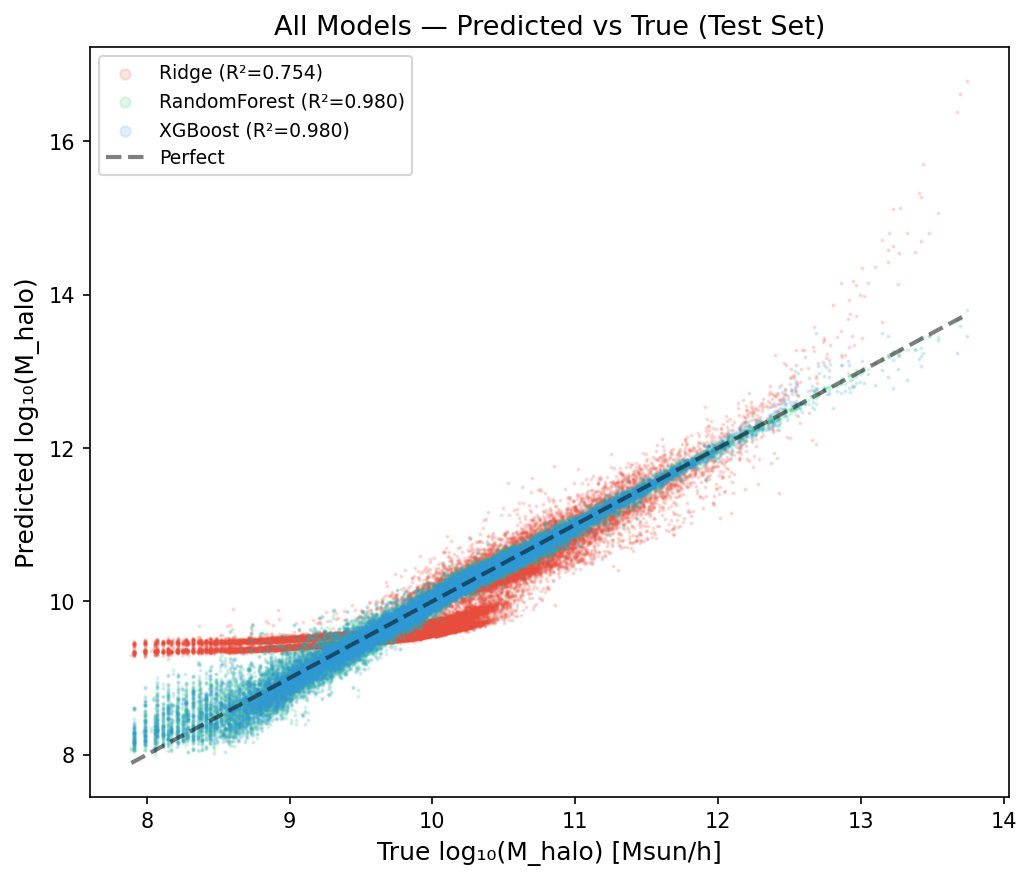
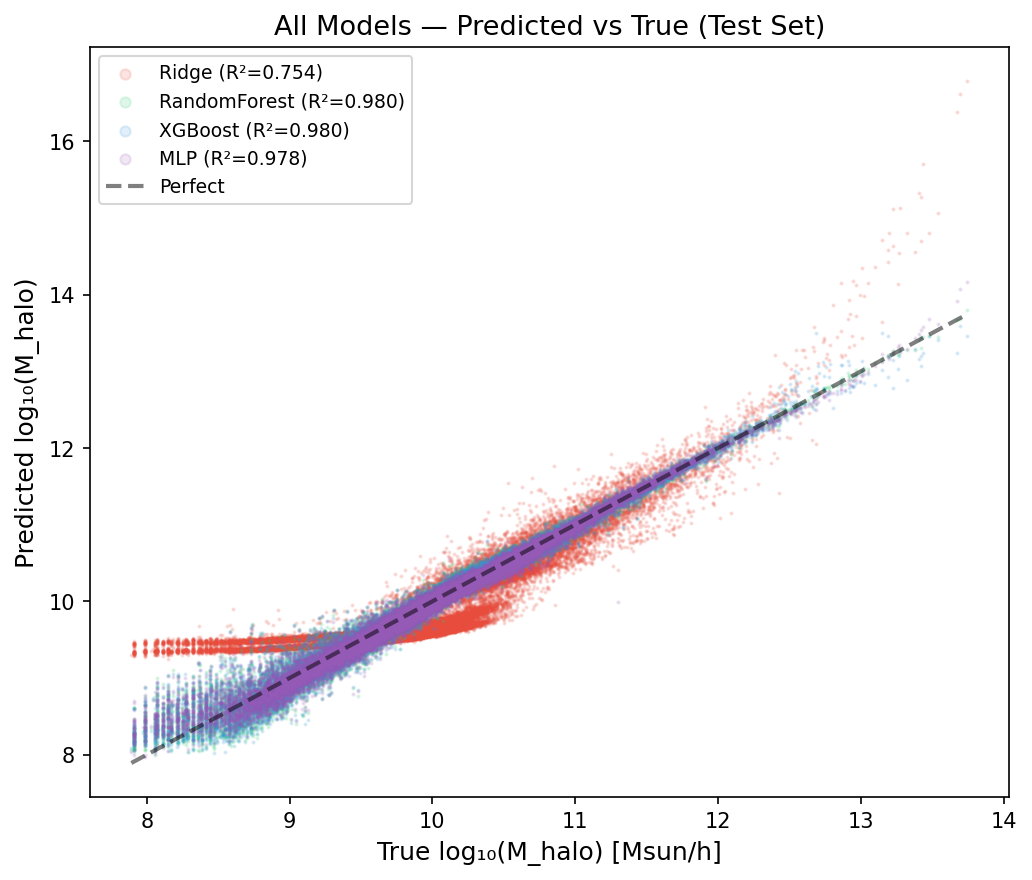
feat: include MLP in mass-binned analysis (step8) and transfer test (step9)

diff --git a/scripts/step8_final_evaluation.py b/scripts/step8_final_evaluation.py
@@ -36,10 +36,41 @@ from sklearn.metrics import mean_absolute_error, mean_squared_error, r2_score
 from sklearn.preprocessing import StandardScaler
 
 try:
+    import torch
+    import torch.nn as nn
+    HAS_TORCH = True
+except ImportError:
+    HAS_TORCH = False
+
+try:
     import xgboost as xgb
     HAS_XGB = True
 except ImportError:
     HAS_XGB = False
+
+
+# ---------------------------------------------------------------------------
+# MLP model definition (must match step7)
+# ---------------------------------------------------------------------------
+if HAS_TORCH:
+    class HaloMLP(nn.Module):
+        def __init__(self, n_features: int, hidden_sizes: list[int], dropout: float):
+            super().__init__()
+            layers = []
+            prev = n_features
+            for h in hidden_sizes:
+                layers.extend([
+                    nn.Linear(prev, h),
+                    nn.BatchNorm1d(h),
+                    nn.ReLU(),
+                    nn.Dropout(dropout),
+                ])
+                prev = h
+            layers.append(nn.Linear(prev, 1))
+            self.net = nn.Sequential(*layers)
+
+        def forward(self, x: torch.Tensor) -> torch.Tensor:
+            return self.net(x).squeeze(-1)
 
 # ---------------------------------------------------------------------------
 _log_lines: list[str] = []
@@ -170,6 +201,24 @@ def combined_pred_vs_true(
         xgb_model.fit(X_train, y_train)
         predictions["XGBoost"] = xgb_model.predict(X_test)
 
+    # MLP (load saved model from step7)
+    mlp_path = Path("artifacts/step7_mlp/best_model.pt")
+    if HAS_TORCH and mlp_path.exists():
+        device = torch.device("cpu")
+        mlp_scaler = StandardScaler()
+        X_train_mlp_s = mlp_scaler.fit_transform(X_train)
+        X_test_mlp_s = mlp_scaler.transform(X_test)
+
+        mlp_model = HaloMLP(n_features=len(feat_cols), hidden_sizes=[256, 128, 64], dropout=0.1)
+        mlp_model.load_state_dict(torch.load(mlp_path, map_location=device, weights_only=True))
+        mlp_model.eval()
+        with torch.no_grad():
+            X_t = torch.tensor(X_test_mlp_s, dtype=torch.float32)
+            predictions["MLP"] = mlp_model(X_t).numpy()
+        log(f"  MLP loaded from {mlp_path}")
+    else:
+        log(f"  MLP skipped (torch={'yes' if HAS_TORCH else 'no'}, model={'exists' if mlp_path.exists() else 'missing'})")
+
     # Plot combined
     colors = {"Ridge": "#E74C3C", "RandomForest": "#2ECC71",
               "XGBoost": "#3498DB", "MLP": "#9B59B6"}
@@ -212,7 +261,7 @@ def mass_binned_analysis(
 
     results: dict[str, Any] = {}
     colors = {"Ridge": "#E74C3C", "RandomForest": "#2ECC71",
-              "XGBoost": "#3498DB"}
+              "XGBoost": "#3498DB", "MLP": "#9B59B6"}
 
     fig, axes = plt.subplots(1, 2, figsize=(14, 5))
 
@@ -262,13 +311,14 @@ def mass_binned_analysis(
 
     # Print table
     log()
-    log(f"  {'Bin':20s} │ {'Count':>6s} │ {'Ridge RMSE':>10s} │ {'RF RMSE':>10s} │ {'XGB RMSE':>10s}")
-    log("  " + "─" * 65)
+    header_models = [m for m in ["Ridge", "RandomForest", "XGBoost", "MLP"] if m in results]
+    header = f"  {'Bin':20s} │ {'Count':>6s}" + "".join(f" │ {m+' RMSE':>12s}" for m in header_models)
+    log(header)
+    log("  " + "─" * (30 + 15 * len(header_models)))
     for i, label in enumerate(bin_labels):
         row_items = [f"  {label:20s}", f" {results.get('Ridge', {}).get('bin_counts', [0]*7)[i]:>6}"]
-        for mname in ["Ridge", "RandomForest", "XGBoost"]:
-            if mname in results:
-                row_items.append(f" {results[mname]['bin_rmse'][i]:>10.4f}")
+        for mname in header_models:
+            row_items.append(f" {results[mname]['bin_rmse'][i]:>12.4f}")
         log(" │".join(row_items))
     log()
     return results

diff --git a/scripts/step9_transfer.py b/scripts/step9_transfer.py
@@ -50,6 +50,37 @@ try:
 except ImportError:
     HAS_XGB = False
 
+try:
+    import torch
+    import torch.nn as nn
+    HAS_TORCH = True
+except ImportError:
+    HAS_TORCH = False
+
+
+# ---------------------------------------------------------------------------
+# MLP model definition (must match step7)
+# ---------------------------------------------------------------------------
+if HAS_TORCH:
+    class HaloMLP(nn.Module):
+        def __init__(self, n_features: int, hidden_sizes: list[int], dropout: float):
+            super().__init__()
+            layers = []
+            prev = n_features
+            for h in hidden_sizes:
+                layers.extend([
+                    nn.Linear(prev, h),
+                    nn.BatchNorm1d(h),
+                    nn.ReLU(),
+                    nn.Dropout(dropout),
+                ])
+                prev = h
+            layers.append(nn.Linear(prev, 1))
+            self.net = nn.Sequential(*layers)
+
+        def forward(self, x: torch.Tensor) -> torch.Tensor:
+            return self.net(x).squeeze(-1)
+
 # ---------------------------------------------------------------------------
 _log_lines: list[str] = []
 def log(msg: str = "") -> None:
@@ -301,6 +332,29 @@ def transfer_evaluation(simba_df: pd.DataFrame, tng_df: pd.DataFrame,
             "simba_test": metrics(y_simba_test, xgb_model.predict(X_simba_test)),
             "tng_test": metrics(y_tng, xgb_model.predict(X_tng)),
         }
+
+    # MLP (load saved model from step7)
+    mlp_path = Path("artifacts/step7_mlp/best_model.pt")
+    if HAS_TORCH and mlp_path.exists():
+        device = torch.device("cpu")
+        mlp_scaler = StandardScaler()
+        X_st_mlp_s = mlp_scaler.fit_transform(X_simba_train)
+        X_ss_mlp_s = mlp_scaler.transform(X_simba_test)
+        X_tng_mlp_s = mlp_scaler.transform(X_tng)
+
+        mlp_model = HaloMLP(n_features=len(feat_cols), hidden_sizes=[256, 128, 64], dropout=0.1)
+        mlp_model.load_state_dict(torch.load(mlp_path, map_location=device, weights_only=True))
+        mlp_model.eval()
+        with torch.no_grad():
+            y_simba_mlp = mlp_model(torch.tensor(X_ss_mlp_s, dtype=torch.float32)).numpy()
+            y_tng_mlp = mlp_model(torch.tensor(X_tng_mlp_s, dtype=torch.float32)).numpy()
+        results["MLP"] = {
+            "simba_test": metrics(y_simba_test, y_simba_mlp),
+            "tng_test": metrics(y_tng, y_tng_mlp),
+        }
+        log(f"  MLP loaded from {mlp_path}")
+    else:
+        log(f"  MLP skipped (torch={'yes' if HAS_TORCH else 'no'}, model={'exists' if mlp_path.exists() else 'missing'})")
 
     # Print table
     log(f"  {'Model':20s} │ {'SIMBA R²':>10s} │ {'TNG R²':>10s} │ {'Δ R²':>10s} │ {'SIMBA RMSE':>12s} │ {'TNG RMSE':>12s}")
